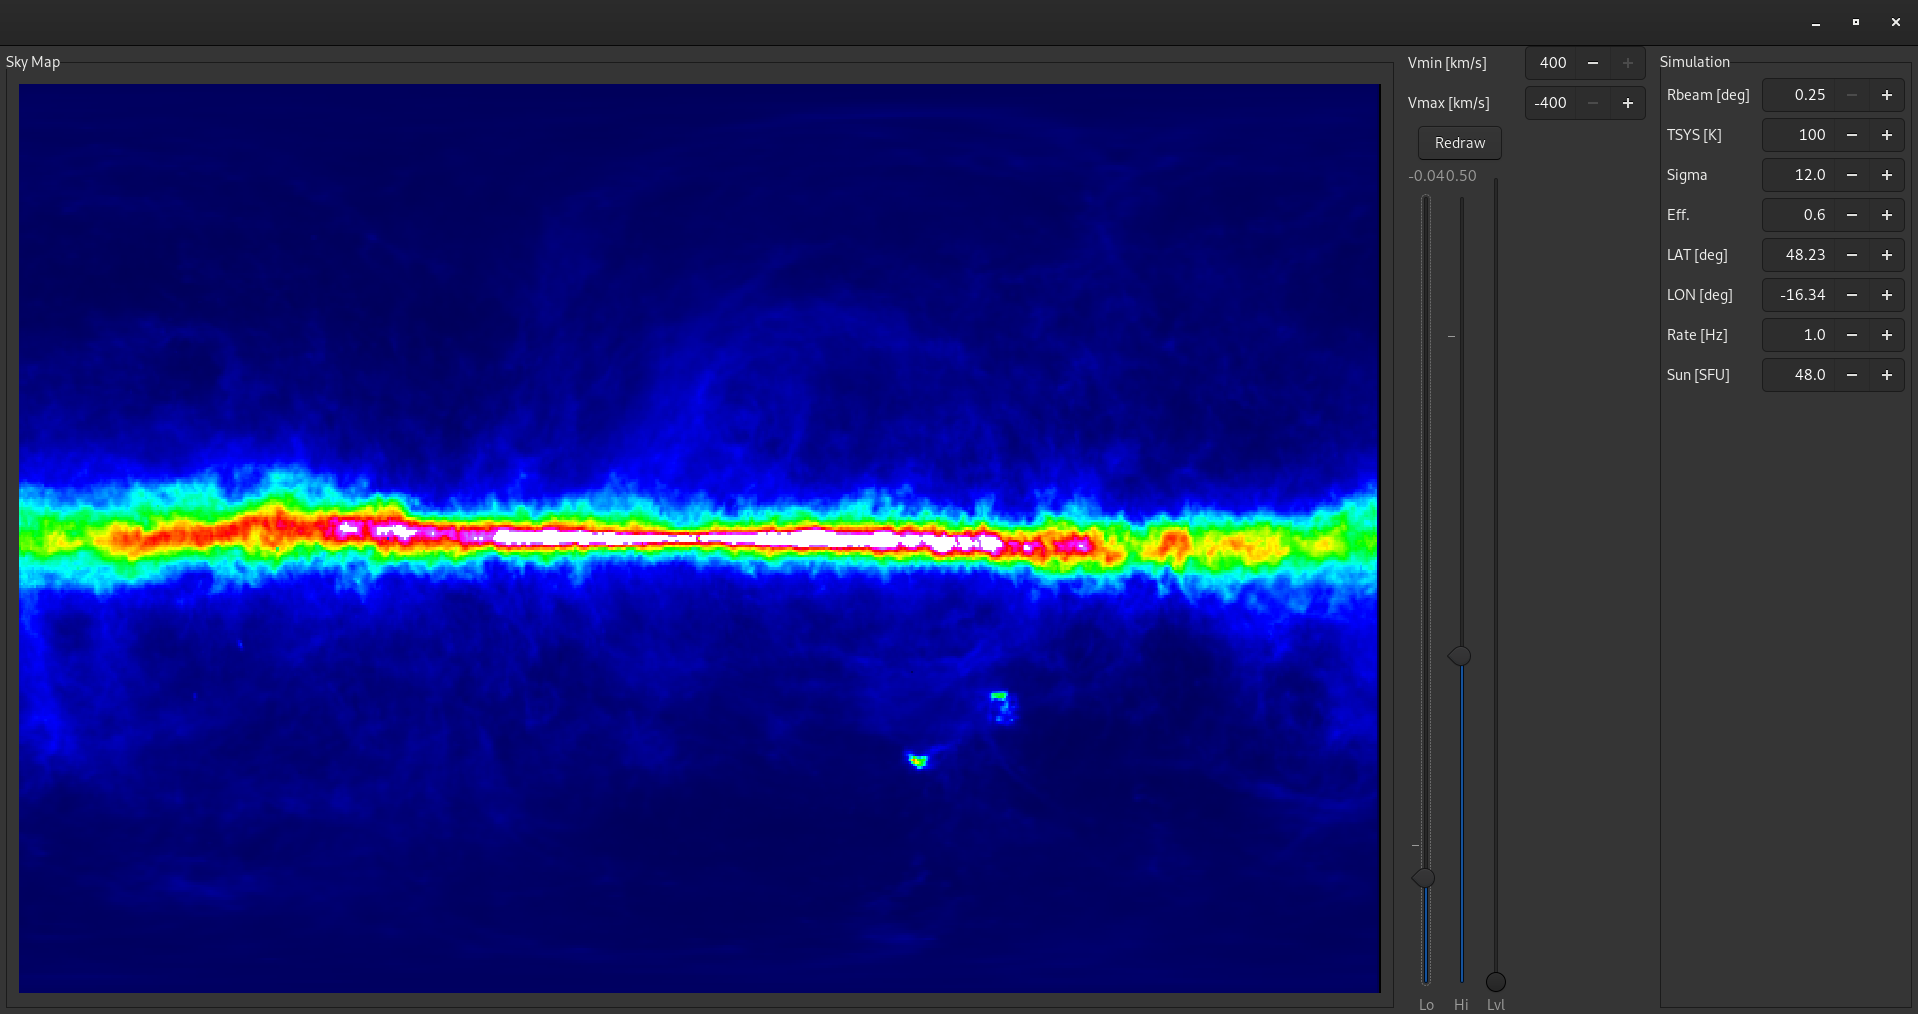
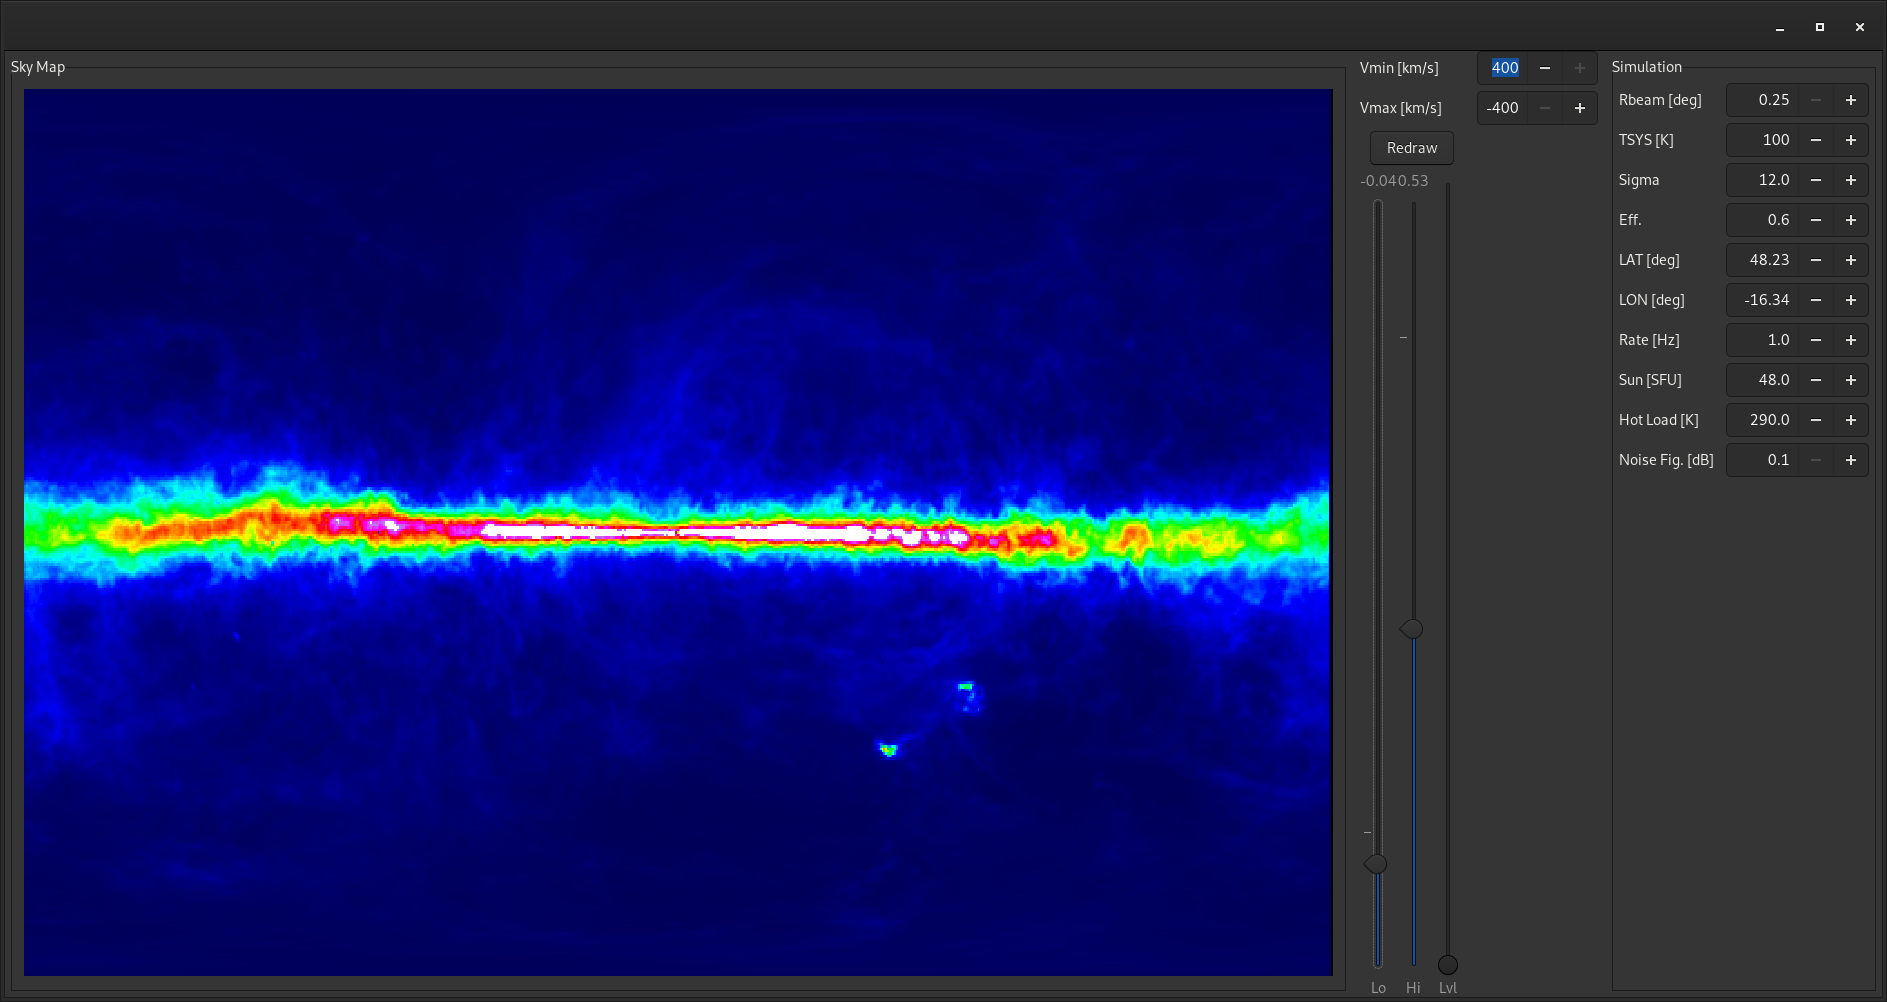
update screenshots, fix typos in readme

diff --git a/README.md b/README.md
@@ -120,8 +120,8 @@ the object and deactivate tracking.
 
 ![Spectrum](./screenshots/spectrum.png)
 
-If acquisiton is enabled, shows current and cumulative average spectrae.
-The gui elements should be mostly self-explanatory, here are the key/mouse
+If acquisition is enabled, shows current and cumulative average spectra.
+The GUI elements should be mostly self-explanatory, here are the key/mouse
 bindings:
 
 *left click and drag* to define a zoom box
@@ -130,13 +130,13 @@ bindings:
 
 *shift + scroll* for Y-axis zoom
 
-*ctrl + scroll* for X-axis zoom
+*Ctrl + scroll* for X-axis zoom
 
 *lower case "a"* to autoscale
 
-*Ctrl + left drag* to fit a gaussian to the selected datums
+*Ctrl + left drag* to fit a Gaussian to the selected data
 
-*lower case "u"* deactivates the gaussian fit box
+*lower case "u"* deactivates the Gaussian fit box
 
 *alt + click* to define new center frequency for spectrometer
 
@@ -157,13 +157,13 @@ Configure the spectrometer. Click *Get Configuration* to update the
 control fields in this tab with the current status of the remote telescope.
 
 The remaining functions will be described in more detail at a later date, but
-be warned of one thing: do not set the acqusition frequency range too wide.
+be warned of one thing: do not set the acquisition frequency range too wide.
 This will work without problems with the simulated radio telescope, but
-in real systems, spectral acquisiton takes time and extreme configurations
+in real systems, spectral acquisition takes time and extreme configurations
 can lead to hours of wait time. See the *REC* status field for the ETA
 of the next spectrum. If it is excessive, you may have misconfigured the system.
 In such a situation, you should scroll/go to the bottom of the tab and
-deactivate *Spectral Acquisiton*, then reconfigure the *Acquisiton Frequency Range*
+deactivate *Spectral Acquisition*, then reconfigure the *Acquisition Frequency Range*
 to a much smaller (typically a few MHz) bandwidth and re-enable.
 
 
@@ -214,9 +214,13 @@ of the simulated telescope.
 
 *LAT* and *LON* set the geographical location of the telescope
 
-*Rate* sets the simulated spectrae per second
+*Rate* sets the simulated spectra per second
 
 *Sun* sets the current radio flux density from the sun.
+
+*Hot Load* sets the temperature of the simulated hot load calibrator
+
+*Noise Fig.* sets the noise figure of the simulated amplifier chain
 
 
 ## Actual Hardware
